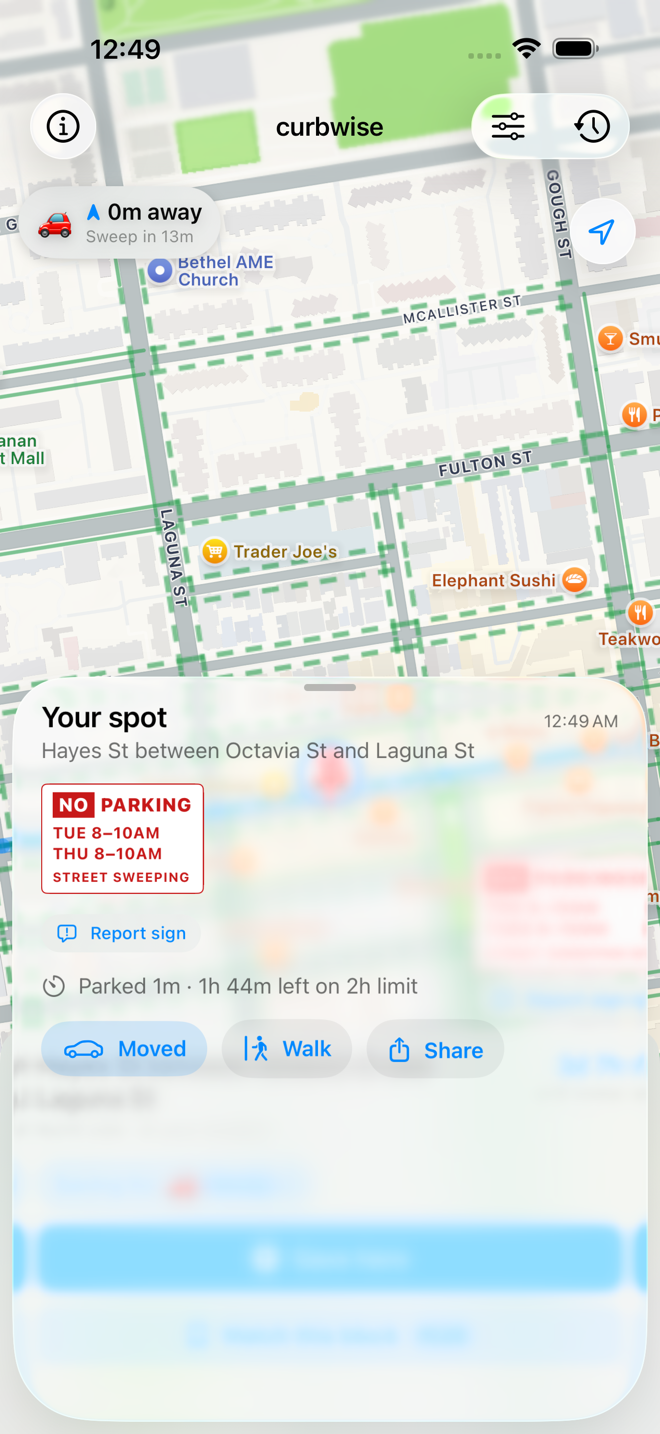
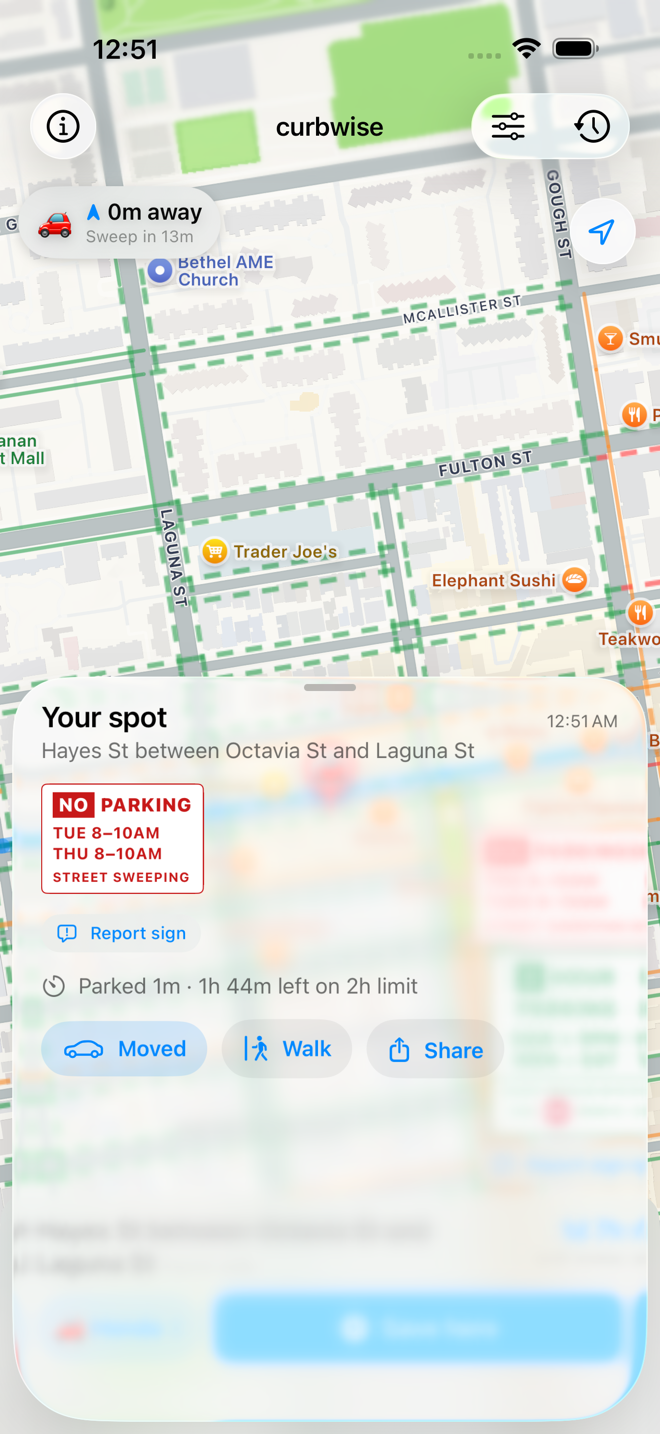
curbwise site: refresh the gallery for the one-line save card
The bottom card lost two rows in 1.7.32: the car picker, "Save
here" and the watch bookmark now share a line, and the header
dropped its third line ("at your location" restated the map, and
the side moved inline into the street name). Six of the eight
gallery shots showed the old three-row card.

20_watched_block_map's alt text described a button that no longer
exists — "the bottom card reading Watching this block". The words
are gone; the state is now a filled bookmark, so the alt text
describes that instead.

Captures resized to the 660x1434 the gallery has always used,
half the simulator's native 1320x2868. Worth stating because it
is the easy thing to get wrong: the native PNGs are 2-4x the
bytes for pixels no browser renders, and copying them straight
across would have taken the gallery from ~10MB to ~16MB.

Dark set deliberately not regenerated this pass, so the Dark
toggle still shows the old card. There is no script for it — the
dark captures come from re-running the same scripts with the
simulator flipped to dark appearance, plus a manual rename.

diff --git a/curbwise/index.html b/curbwise/index.html
@@ -483,7 +483,7 @@
                     <span class="shot-caption">4. Get warned — before the limit, not after the ticket.</span>
                 </div>
                 <div class="shot">
-                    <img loading="lazy" decoding="async" data-light="screenshots/20_watched_block_map.png" data-dark="screenshots/20_watched_block_map_dark.png" src="screenshots/20_watched_block_map.png" alt="A watched block marked with a green bookmark on the map, the bottom card reading Watching this block.">
+                    <img loading="lazy" decoding="async" data-light="screenshots/20_watched_block_map.png" data-dark="screenshots/20_watched_block_map_dark.png" src="screenshots/20_watched_block_map.png" alt="A watched block marked with a green bookmark on the map, the bookmark button on the bottom card filled in to show the block is being watched.">
                     <span class="shot-caption">5. Watch a block (Plus) — claim it the moment it's swept.</span>
                 </div>
                 <div class="shot">
